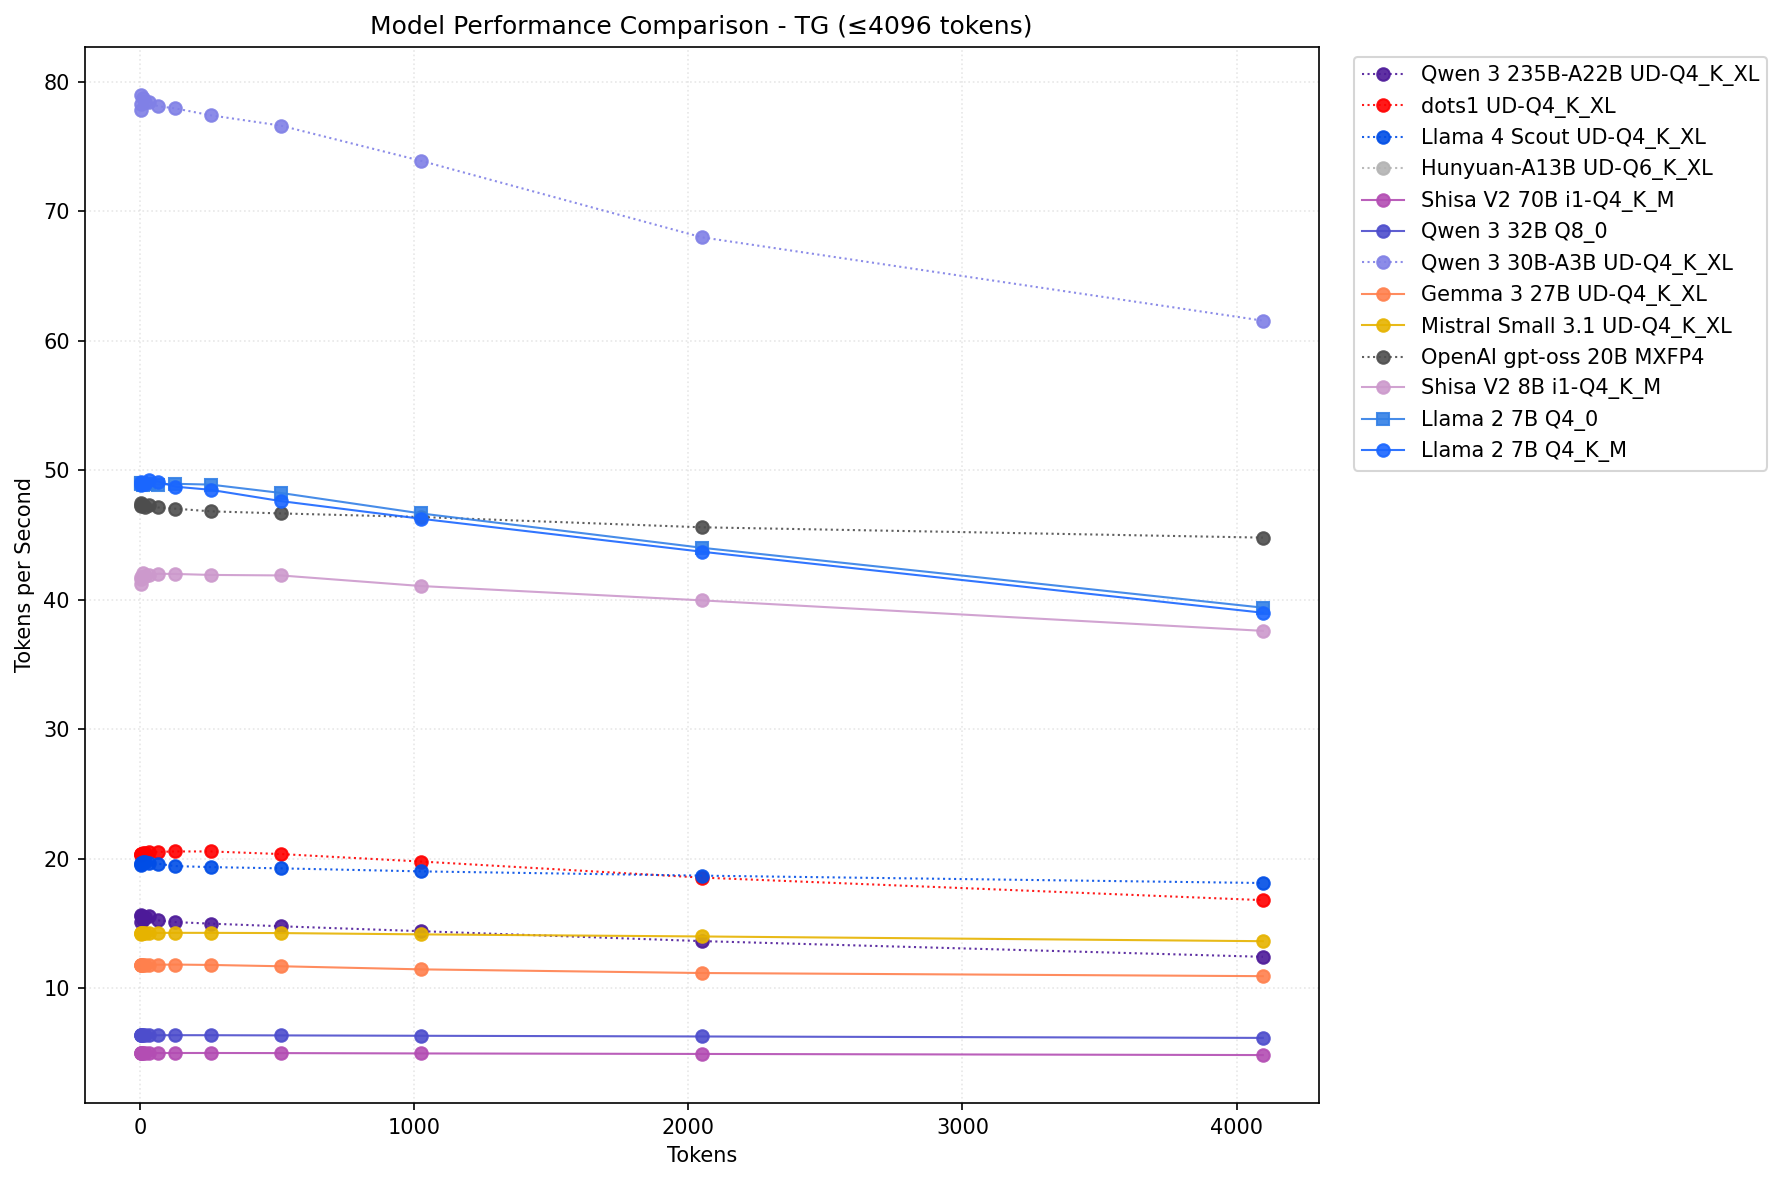
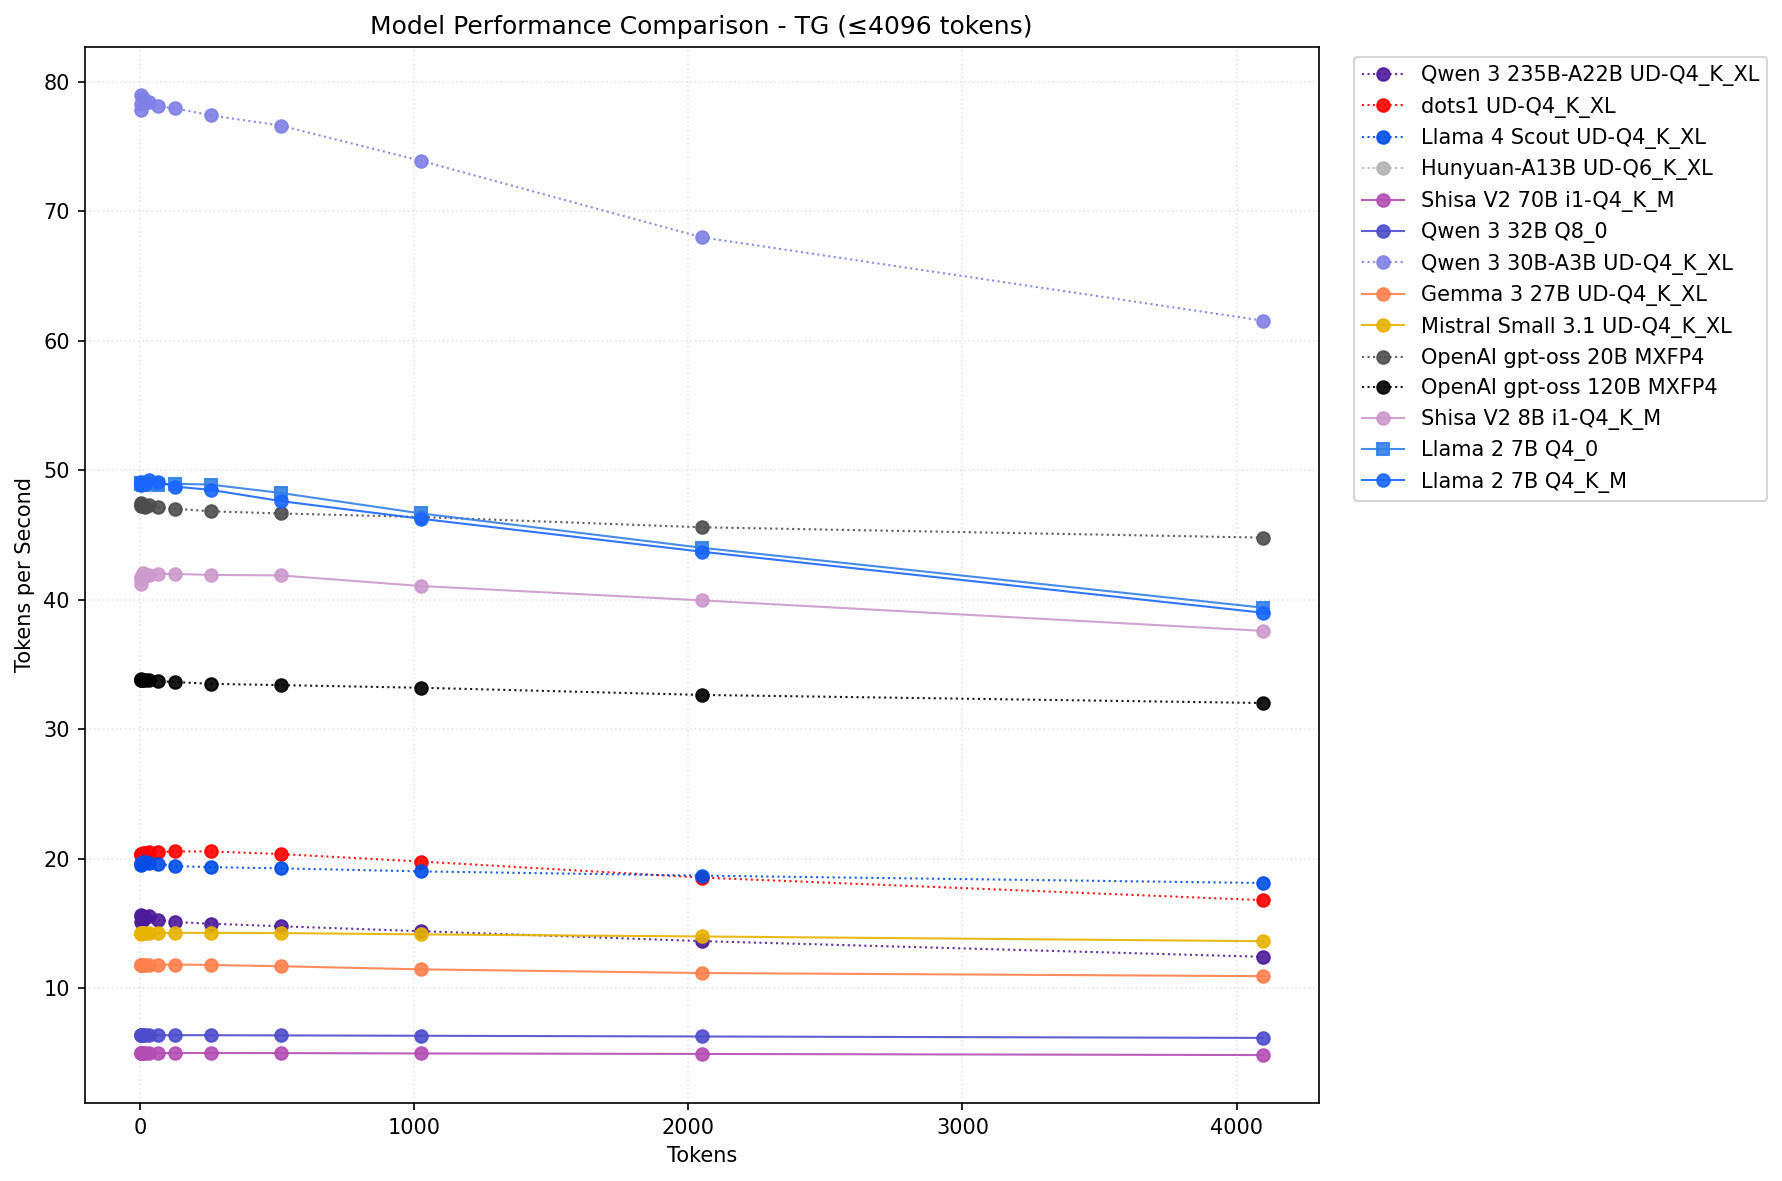
gpt-oss

diff --git a/llm-bench/create-summary-readme.py b/llm-bench/create-summary-readme.py
@@ -179,6 +179,19 @@ MODELS = {
             "ls": ":",
         },
     },
+    "gpt-oss-120b-F16": {
+        "name": "OpenAI gpt-oss 120B MXFP4",
+        "arch": "gpt-oss",
+        "weights": 21,
+        "active": 3.6,
+        "pp": "vulkan",
+        "tg": "vulkan_b=256",
+        "line": {
+            "color": (0.0, 0.0, 0.0, 0.9),
+            "lw": 1,
+            "ls": ":",
+        },
+    },
 }
 
 def load_model_results(model_key):

diff --git a/llm-bench/README.md b/llm-bench/README.md
@@ -95,6 +95,7 @@ cmake -S . -B build -DGGML_HIP=ON -DAMDGPU_TARGETS=gfx1151 -DGGML_HIP_ROCWMMA_FA
 | Llama 2 7B Q4_K_M            | Llama 2        |             7 |            7 | HIP rocWMMA | fa=1 hipBLASLt |  1083.0 |    41.3 |               4720 |
 | Shisa V2 8B i1-Q4_K_M        | Llama 3        |             8 |            8 | HIP         | hipBLASLt      |   878.2 |    37.2 |               5308 |
 | Qwen 3 30B-A3B UD-Q4_K_XL    | Qwen 3 MoE     |            30 |            3 | HIP rocWMMA | fa=1 hipBLASLt |   669.4 |    58.5 |              17533 |
+| OpenAI gpt-oss 120B MXFP4    | gpt-oss        |            21 |            4 | Vulkan      |                |   430.6 |    33.7 |              64157 |
 | Mistral Small 3.1 UD-Q4_K_XL | Mistral 3      |            24 |           24 | HIP         | hipBLASLt      |   316.9 |    13.6 |              14638 |
 | Gemma 3 27B UD-Q4_K_XL       | Gemma 3        |            27 |           27 | HIP         | hipBLASLt      |   302.2 |    10.7 |              17542 |
 | Llama 4 Scout UD-Q4_K_XL     | Llama 4 MoE    |           109 |           17 | HIP         | hipBLASLt      |   277.4 |    17.6 |              59720 |
@@ -114,6 +115,7 @@ cmake -S . -B build -DGGML_HIP=ON -DAMDGPU_TARGETS=gfx1151 -DGGML_HIP_ROCWMMA_FA
 | Llama 2 7B Q4_K_M            | Llama 2        |             7 |            7 | Vulkan    | fa=1           |   787.6 |    48.7 |               4463 |
 | OpenAI gpt-oss 20B MXFP4     | gpt-oss        |            21 |            4 | Vulkan    | b=256          |   943.1 |    47.0 |              14684 |
 | Shisa V2 8B i1-Q4_K_M        | Llama 3        |             8 |            8 | Vulkan    | fa=1           |   614.2 |    42.0 |               5333 |
+| OpenAI gpt-oss 120B MXFP4    | gpt-oss        |            21 |            4 | Vulkan    | b=256          |   386.8 |    33.7 |              63945 |
 | dots1 UD-Q4_K_XL             | dots1 MoE      |           142 |           14 | Vulkan    | fa=1 b=256     |    63.1 |    20.6 |              84077 |
 | Llama 4 Scout UD-Q4_K_XL     | Llama 4 MoE    |           109 |           17 | Vulkan    | fa=1 b=256     |   157.8 |    19.4 |              59917 |
 | Qwen 3 235B-A22B UD-Q4_K_XL  | Qwen 3 MoE     |           235 |           22 | Vulkan    | fa=1           |   109.5 |    15.1 |             100446 |
